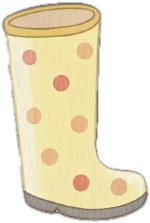
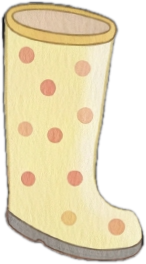
Ёжик: одежда сидит по фигуре, одинаковые сапоги
Claude-Session: https://claude.ai/code/session_0124vxzW3ocTsHimX6NDjjNo

diff --git a/games/dress/game.js b/games/dress/game.js
@@ -13,7 +13,8 @@
   /* Положение одежды на героях (в процентах от картинки героя) */
   const HEROES = {
     hedgehog: { name: 'Ёжик',    img: 'img/hedgehog.png', ar: 446 / 560, hi: 'Привет! Я Ёжик! Помоги мне одеться на прогулку!',
-      coat: { l: 16.5, t: 9, w: 67 }, bootL: { l: 25, w: 18 }, bootR: { l: 60, w: 18 }, umbrella: { l: 76, w: 32 } },
+      coat: { l: 11, t: 42.5, w: 78 }, bootL: { l: 28.3, w: 23, b: -2.2 }, bootR: { l: 54.2, w: 23, b: -2.2 }, umbrella: { l: 76, w: 32 },
+      fit: { body: 'img/hedgehog-body.png', footL: 'img/hedgehog-footL.png', footR: 'img/hedgehog-footR.png' } },
     fox:      { name: 'Лисичка', img: 'img/fox.png',      ar: 451 / 600, hi: 'Привет! Я Лисичка! Помоги мне одеться на прогулку!',
       coat: { l: 9, t: 24.6, w: 48 }, bootL: { l: 11, w: 16 }, bootR: { l: 38, w: 16 }, umbrella: { l: -26, w: 26 } },
     squirrel: { name: 'Белочка', img: 'img/squirrel.png', ar: 553 / 560, hi: 'Привет! Я Белочка! Помоги мне одеться на прогулку!',
@@ -62,11 +63,16 @@
     box.style.setProperty('--HH', H + 'px');
     box.style.setProperty('--ar', h.ar);
     const on = allWorn ? ' on' : '';
+    const fit = h.fit;
+    const bb = (b) => (b.b !== undefined ? b.b : -1);
+    box.classList.toggle('fit', !!fit);
     box.innerHTML =
-      '<img class="hero-img" src="' + h.img + '" alt="">' +
+      '<img class="hero-img" src="' + (fit ? fit.body : h.img) + '" alt="">' +
       '<img class="w w-coat' + on + '" src="img/coat-' + key + '.png" alt="" style="left:' + h.coat.l + '%;top:' + h.coat.t + '%;width:' + h.coat.w + '%">' +
-      '<img class="w w-bootL' + on + '" src="img/bootL-' + key + '.png" alt="" style="left:' + h.bootL.l + '%;bottom:-1%;width:' + h.bootL.w + '%">' +
-      '<img class="w w-bootR' + on + '" src="img/bootR-' + key + '.png" alt="" style="left:' + h.bootR.l + '%;bottom:-1%;width:' + h.bootR.w + '%">' +
+      '<img class="w w-bootL' + on + '" src="img/bootL-' + key + '.png" alt="" style="left:' + h.bootL.l + '%;bottom:' + bb(h.bootL) + '%;width:' + h.bootL.w + '%">' +
+      (fit ? '<img class="foot footL" src="' + fit.footL + '" alt="">' : '') +
+      '<img class="w w-bootR' + on + '" src="img/bootR-' + key + '.png" alt="" style="left:' + h.bootR.l + '%;bottom:' + bb(h.bootR) + '%;width:' + h.bootR.w + '%">' +
+      (fit ? '<img class="foot footR" src="' + fit.footR + '" alt="">' : '') +
       '<img class="w w-umbrella' + on + '" src="img/umbrella-' + key + '.png" alt="" style="left:' + h.umbrella.l + '%;bottom:0;width:' + h.umbrella.w + '%">';
     return box;
   };

diff --git a/games/dress/dress.css b/games/dress/dress.css
@@ -343,3 +343,12 @@ button.target:hover { background: #fffaf3; }
 #screen-win .panel { background: rgba(255,255,255,0.9); }
 
 @media (prefers-reduced-motion: reduce) { .hero-box, .win-rain, .rain, .pd { animation: none; } }
+
+/* Посадка одежды (ёжик): сапоги выходят из-под тела, пальто без капюшона */
+.hero-box.fit { isolation: isolate; }
+.hero-box.fit .w-coat { clip-path: none; }
+.hero-box.fit .w-bootL, .hero-box.fit .w-bootR { z-index: 0; }
+.hero-box.fit .hero-img { z-index: 1; }
+.hero-box.fit .w-coat { z-index: 2; }
+.foot { position: absolute; left: 0; top: 0; width: 100%; height: 100%; z-index: 0; pointer-events: none; filter: drop-shadow(0 6px 5px rgba(0,0,0,0.16)); }
+.w-bootL.on ~ .footL, .w-bootR.on ~ .footR { display: none; }
